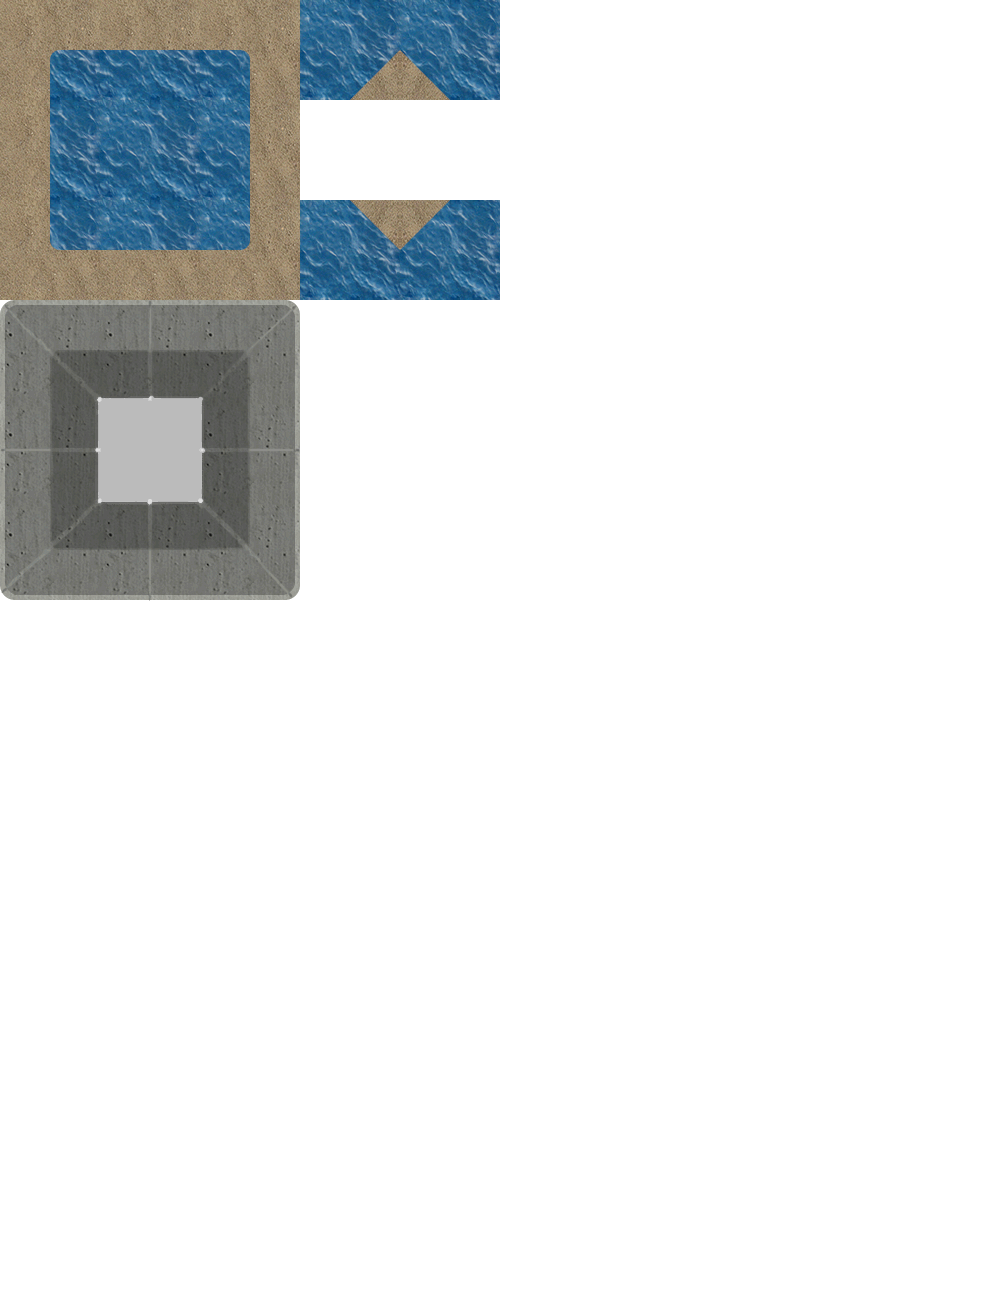
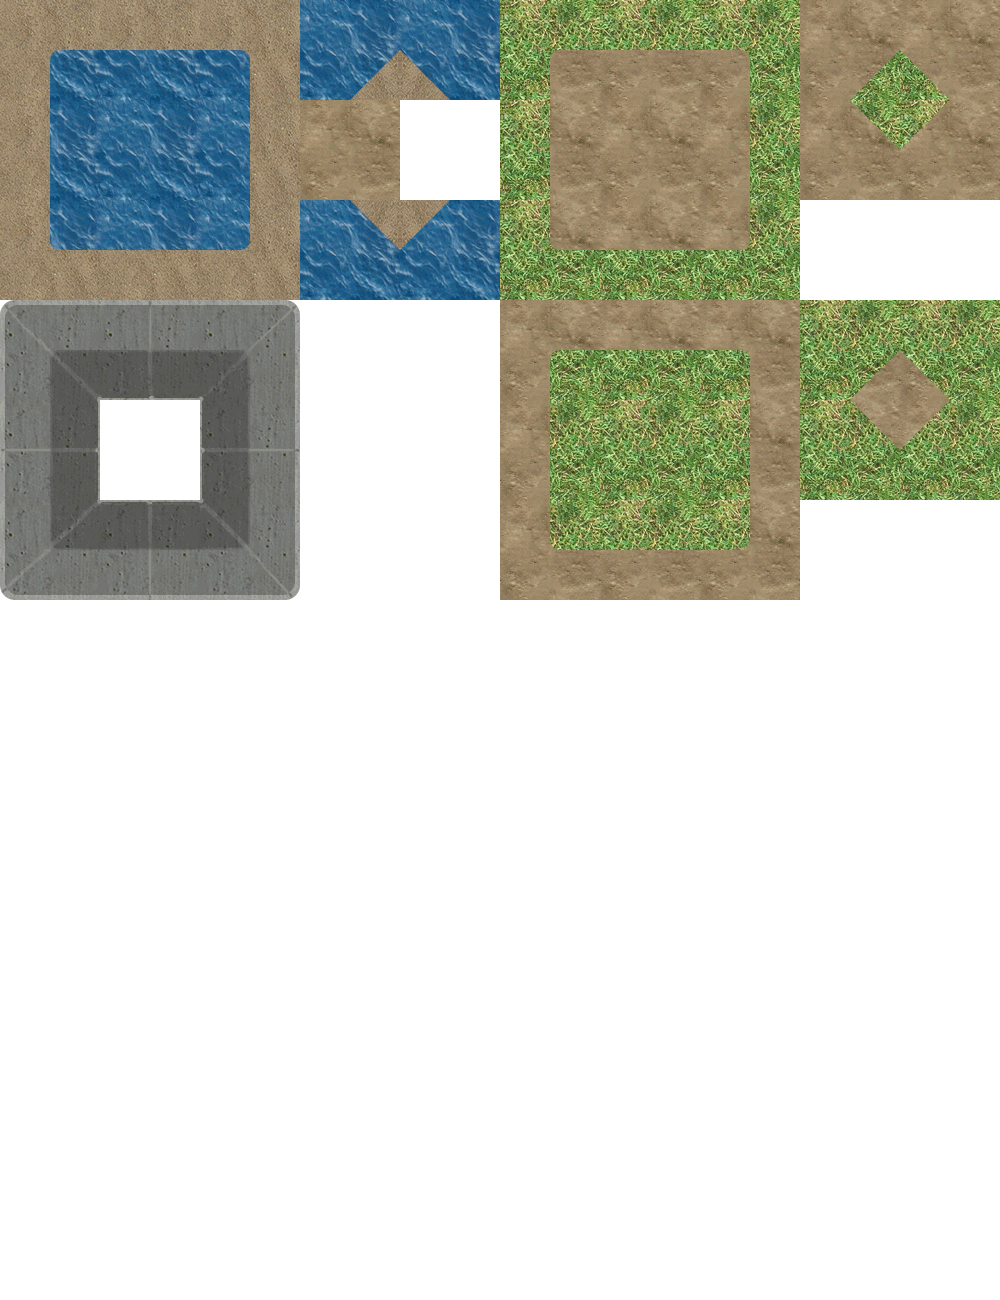
More new tiles, updated terrain gen

Changed region(s): [[0.496, 0.0, 1.0, 0.4615], [0.279, 0.0615, 0.403, 0.1538], [0.093, 0.3077, 0.217, 0.4]]

diff --git a/Hunted/TerrainGeneration.cs b/Hunted/TerrainGeneration.cs
@@ -15,7 +15,9 @@ namespace Hunted
         public static int PercentComplete;
 
         const int TILESHEET_WIDTH = 10;
-        
+
+        const int PAGE = 130;
+
         const int SAND = 14;
         const int SAND_ALT = 17;
         const int WATER = 12;
@@ -55,14 +57,31 @@ namespace Hunted
         const int GRASS_CORNER_OUTSIDE_BL = 56;
         const int GRASS_CORNER_OUTSIDE_BR = 58;
 
-        const int WALL_EDGE_UP = 102;
-        const int WALL_EDGE_DOWN = 122;
-        const int WALL_EDGE_LEFT = 111;
-        const int WALL_EDGE_RIGHT = 113;
-        const int WALL_TL = 101;
-        const int WALL_TR = 103;
-        const int WALL_BL = 121;
-        const int WALL_BR = 123;
+        const int MUD = 14 + PAGE;
+
+        const int MUD_EDGE_UP = 37 + PAGE;
+        const int MUD_EDGE_DOWN = 57 + PAGE;
+        const int MUD_EDGE_LEFT = 46 + PAGE;
+        const int MUD_EDGE_RIGHT = 48 + PAGE;
+
+        const int MUD_CORNER_INSIDE_TL = 39 + PAGE;
+        const int MUD_CORNER_INSIDE_TR = 40 + PAGE;
+        const int MUD_CORNER_INSIDE_BL = 49 + PAGE;
+        const int MUD_CORNER_INSIDE_BR = 50 + PAGE;
+
+        const int MUD_CORNER_OUTSIDE_TL = 36 + PAGE;
+        const int MUD_CORNER_OUTSIDE_TR = 38 + PAGE;
+        const int MUD_CORNER_OUTSIDE_BL = 56 + PAGE;
+        const int MUD_CORNER_OUTSIDE_BR = 58 + PAGE;
+
+        const int WALL_EDGE_UP = 32 + PAGE;
+        const int WALL_EDGE_DOWN = 52 + PAGE;
+        const int WALL_EDGE_LEFT = 41 + PAGE;
+        const int WALL_EDGE_RIGHT = 43 + PAGE;
+        const int WALL_TL = 31 + PAGE;
+        const int WALL_TR = 33 + PAGE;
+        const int WALL_BL = 51 + PAGE;
+        const int WALL_BR = 53 + PAGE;
 
         const int TREE = 31;
         static int[] TREES = new int[] { 31, 41, 51, 93, 94, 95, 96, 97, 98, 99, 100 };
@@ -394,7 +413,7 @@ namespace Hunted
                                     {
                                         wallLayer.Tiles[xx, yy] = null;
                                         if (xx > bounds.Left + 2 && xx < bounds.Right - 2 && yy > bounds.Top + 2 && yy < bounds.Bottom - 2)
-                                            terrainLayer.Tiles[xx, yy] = map.Tiles[CONCRETE];
+                                            terrainLayer.Tiles[xx, yy] = map.Tiles[MUD];
                                     }
                                 }
 

diff --git a/Hunted/Dude/AIDude.cs b/Hunted/Dude/AIDude.cs
@@ -61,7 +61,8 @@ namespace Hunted
             {
                 Vector2 dir = Target - Position;
                 Move(dir);
-                if(State==AIState.Patrolling) LookAt(Target);
+                //if(State==AIState.Patrolling) 
+                if(State!=AIState.Attacking) LookAt(Target);
             }
             else
             {
@@ -117,8 +118,13 @@ namespace Hunted
                         {
                             chasePath = chasePath.next;
                             if (chasePath != null) Target = new Vector2((chasePath.position.X * gameMap.TileWidth) + (gameMap.TileWidth / 2), (chasePath.position.Y * gameMap.TileHeight) + (gameMap.TileHeight / 2));
-                            else State = AIState.Patrolling;
+                            else State = AIState.Chasing;
                         }
+                    }
+                    if (CheckLineOfSight(gameHero.Position, gameMap))
+                    {
+                        Target = Position; // Stop dead in tracks
+                        State = AIState.Chasing; // Begin chasing player
                     }
                     break;
                 case AIState.Attacking:
@@ -126,7 +132,11 @@ namespace Hunted
                     Attack(gameTime, true);
                     if (Weapons[SelectedWeapon].GetType() != typeof(Knife))
                     {
-                        if ((gameHero.Position - Position).Length() > 350f) State = AIState.Chasing;
+                        if ((gameHero.Position - Position).Length() > 400f)
+                        {
+                            Target = gameHero.Position;
+                            State = AIState.Chasing;
+                        }
 
                         if (Helper.Random.Next(100) == 1)
                         {
@@ -165,6 +175,11 @@ namespace Hunted
                     break;
                 case AIState.FollowingPath:
                     Target = Position;
+                    regeneratePath = true;
+                    break;
+                case AIState.Attacking:
+                    Target = Position;
+                    State = AIState.FollowingPath;
                     regeneratePath = true;
                     break;
             }

diff --git a/hunted/screens/MenuScreen.cs b/hunted/screens/MenuScreen.cs
@@ -234,8 +234,8 @@ namespace Hunted
                 MenuEntry menuEntry = menuEntries[i];
                 
                 // each entry is to be centered horizontally
-                position.X = -400f + (420f * TransitionAlpha);
-
+                position.X = -(400f - ((i*40f))) + (420f * TransitionAlpha);
+                if (position.X > 20f) position.X = 20f;
                 menuEntry.Zoom = 1f;
 
                 //if (ScreenState == ScreenState.TransitionOn)
